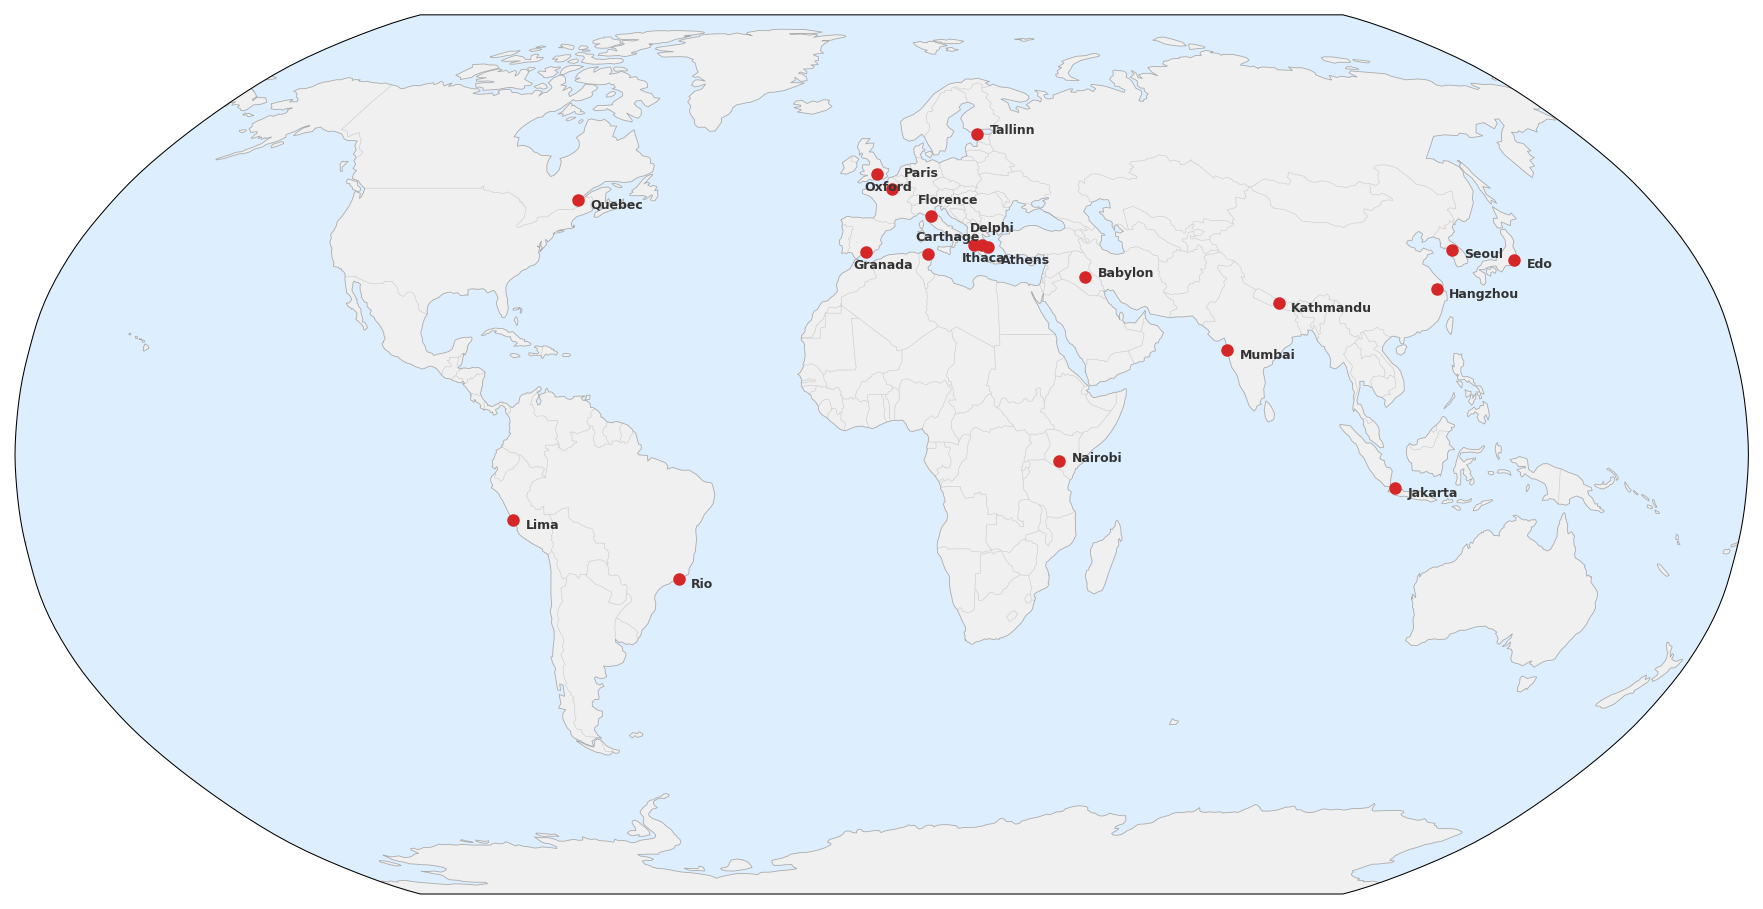
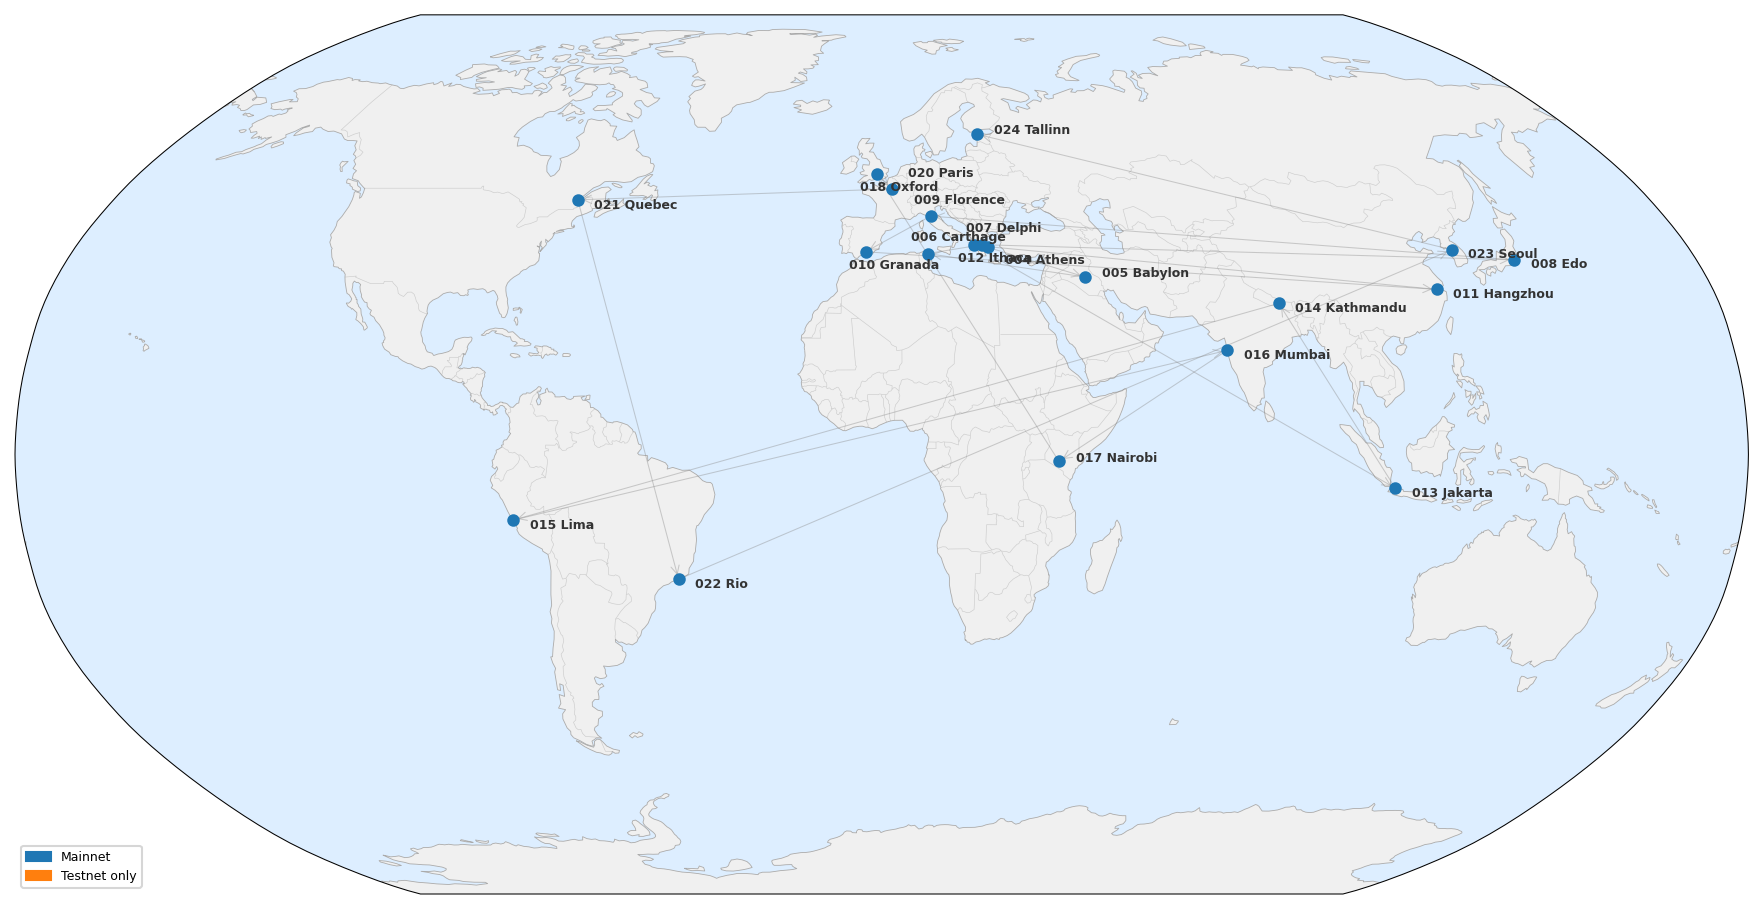
Improve static map with colors, numbers, arrows, and legend
Read protocols.json to color-code markers (blue for mainnet, orange
for testnet-only), prefix labels with three-digit protocol numbers,
draw chronological arrows between cities, and add a legend. Falls
back to the previous red-dot style when protocols.json is absent.

diff --git a/scripts/generate_map.py b/scripts/generate_map.py
@@ -2,6 +2,7 @@
 """Render tezos.gpx waypoints onto a world map using cartopy + matplotlib."""
 
 import argparse
+import json
 import xml.etree.ElementTree as ET
 
 import cartopy.crs as ccrs
@@ -9,26 +10,37 @@ import cartopy.feature as cfeature
 import matplotlib
 
 matplotlib.use("Agg")
+import matplotlib.patches as mpatches
 import matplotlib.pyplot as plt
 
 
 # Manual label offsets (dx, dy in points) for cities that would overlap.
 # Positive dx = right, positive dy = up.
 LABEL_OFFSETS = {
-    "Athens": (6, -8),
-    "Babylon": (6, 0),
-    "Carthage": (-6, 6),
-    "Delphi": (-6, 6),
-    "Florence": (-6, 6),
-    "Granada": (-6, -8),
-    "Ithaca": (-6, -8),
-    "Paris": (6, 6),
-    "Oxford": (-6, -8),
-    "Tallinn": (6, 0),
-    "Nairobi": (6, 0),
+    "Athens": (8, -8),
+    "Babylon": (8, 0),
+    "Carthage": (-8, 6),
+    "Delphi": (-8, 6),
+    "Florence": (-8, 6),
+    "Granada": (-8, -8),
+    "Ithaca": (-8, -8),
+    "Paris": (8, 6),
+    "Oxford": (-8, -8),
+    "Tallinn": (8, 0),
+    "Nairobi": (8, 0),
 }
 
-DEFAULT_OFFSET = (6, -4)
+DEFAULT_OFFSET = (8, -4)
+
+# Protocol names that differ from the short label used on the map.
+PROTOCOL_TO_LABEL = {
+    "ParisC": "Paris",
+}
+
+COLOR_MAINNET = "#1f77b4"
+COLOR_TESTNET = "#ff7f0e"
+COLOR_ARROW = "#888888"
+COLOR_FALLBACK = "#d62728"
 
 
 def parse_gpx(gpx_path):
@@ -62,7 +74,33 @@ def short_label(name):
     return label
 
 
-def generate_map(waypoints, output_path, dpi):
+def load_protocols(path):
+    """Load protocols.json if it exists. Returns dict or None."""
+    if not path:
+        return None
+    try:
+        with open(path, encoding="utf-8") as f:
+            return json.load(f)
+    except (FileNotFoundError, json.JSONDecodeError):
+        return None
+
+
+def match_protocols(waypoints, protocols):
+    """Build label->protocol mapping from GPX waypoints and protocols.json."""
+    label_to_proto = {}
+    for proto_name, data in protocols.items():
+        label = PROTOCOL_TO_LABEL.get(proto_name, proto_name)
+        label_to_proto[label] = data
+
+    matched = {}
+    for name, lat, lon in waypoints:
+        label = short_label(name)
+        if label in label_to_proto:
+            matched[label] = label_to_proto[label]
+    return matched
+
+
+def generate_map(waypoints, output_path, dpi, protocols=None):
     """Render waypoints on a Robinson-projection world map."""
     fig = plt.figure(figsize=(12, 6))
     ax = fig.add_subplot(1, 1, 1, projection=ccrs.Robinson())
@@ -74,22 +112,55 @@ def generate_map(waypoints, output_path, dpi):
     ax.add_feature(cfeature.COASTLINE, linewidth=0.4, edgecolor="#aaaaaa")
     ax.spines["geo"].set_linewidth(0.5)
 
+    matched = match_protocols(waypoints, protocols) if protocols else {}
+
+    # Draw chronological arrows if we have protocol data.
+    if matched:
+        wpt_by_label = {short_label(n): (lat, lon) for n, lat, lon in waypoints}
+        ordered = sorted(matched.items(), key=lambda kv: kv[1]["number"])
+        trail = [(wpt_by_label[label], label) for label, _ in ordered if label in wpt_by_label]
+
+        for i in range(len(trail) - 1):
+            (lat1, lon1), _ = trail[i]
+            (lat2, lon2), _ = trail[i + 1]
+            ax.annotate(
+                "",
+                xy=(lon2, lat2),
+                xytext=(lon1, lat1),
+                xycoords=ccrs.PlateCarree()._as_mpl_transform(ax),
+                textcoords=ccrs.PlateCarree()._as_mpl_transform(ax),
+                arrowprops=dict(
+                    arrowstyle="->",
+                    color=COLOR_ARROW,
+                    alpha=0.4,
+                    lw=0.5,
+                ),
+                zorder=3,
+            )
+
     for name, lat, lon in waypoints:
+        label = short_label(name)
+        proto = matched.get(label)
+
+        if proto:
+            color = COLOR_MAINNET if proto.get("mainnet") else COLOR_TESTNET
+            number_str = f"{proto['number']:03d} "
+        else:
+            color = COLOR_FALLBACK
+            number_str = ""
+
         ax.plot(
-            lon,
-            lat,
+            lon, lat,
             marker="o",
-            color="#d62728",
+            color=color,
             markersize=5,
             transform=ccrs.PlateCarree(),
             zorder=5,
         )
 
-        label = short_label(name)
         dx, dy = LABEL_OFFSETS.get(label, DEFAULT_OFFSET)
-
         ax.annotate(
-            label,
+            f"{number_str}{label}",
             xy=(lon, lat),
             xycoords=ccrs.PlateCarree()._as_mpl_transform(ax),
             xytext=(dx, dy),
@@ -99,6 +170,14 @@ def generate_map(waypoints, output_path, dpi):
             color="#333333",
             zorder=6,
         )
+
+    # Legend.
+    if matched:
+        legend_handles = [
+            mpatches.Patch(color=COLOR_MAINNET, label="Mainnet"),
+            mpatches.Patch(color=COLOR_TESTNET, label="Testnet only"),
+        ]
+        ax.legend(handles=legend_handles, loc="lower left", fontsize=6, framealpha=0.8)
 
     plt.tight_layout(pad=0.5)
     fig.savefig(output_path, dpi=dpi, bbox_inches="tight")
@@ -111,11 +190,22 @@ def main():
     parser.add_argument("--gpx", default="tezos.gpx", help="Path to GPX file")
     parser.add_argument("--output", default="map.png", help="Output PNG path")
     parser.add_argument("--dpi", type=int, default=150, help="Output DPI")
+    parser.add_argument(
+        "--protocols", default="protocols.json",
+        help="Path to protocols.json (empty string to disable enrichment)",
+    )
     args = parser.parse_args()
 
     waypoints = parse_gpx(args.gpx)
     print(f"Parsed {len(waypoints)} waypoints from {args.gpx}")
-    generate_map(waypoints, args.output, args.dpi)
+
+    protocols = load_protocols(args.protocols)
+    if protocols:
+        print(f"Loaded {len(protocols)} protocols from {args.protocols}")
+    else:
+        print("No protocols.json loaded; using fallback style")
+
+    generate_map(waypoints, args.output, args.dpi, protocols)
 
 
 if __name__ == "__main__":